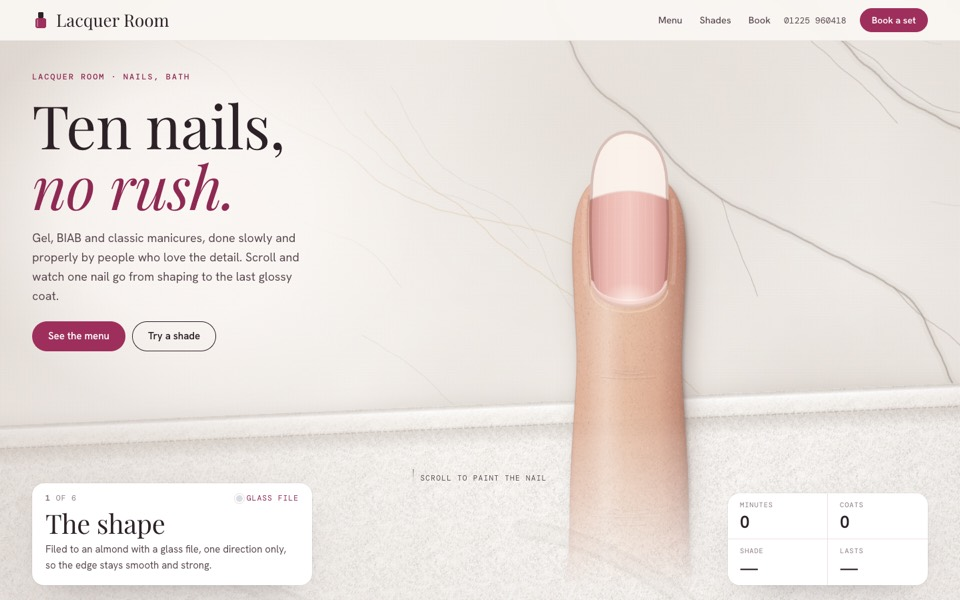
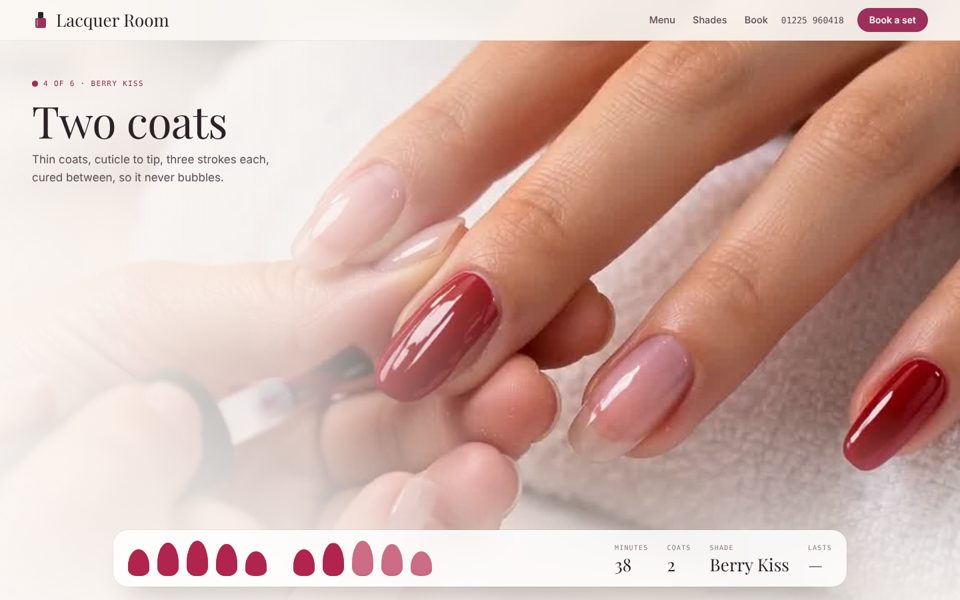
Lacquer redesigned v5: the real manicure above a rest of ten nails in the client's shape, painted in turn and cured under a glowing lamp
Claude-Session: https://claude.ai/code/session_0133g3z4wqTvWj4LLKkZ92ba

diff --git a/design-packages/design/lacquer/template.html b/design-packages/design/lacquer/template.html
@@ -1,11 +1,13 @@
 <!doctype html><html><head><meta charset=utf8><meta name=viewport content="width=device-width,initial-scale=1,viewport-fit=cover"><style>:root{color-scheme:light;box-sizing:border-box;padding-top:env(safe-area-inset-top,0px);padding-bottom:env(safe-area-inset-bottom,0px)}html{scroll-padding-top:env(safe-area-inset-top,0px)}body{margin:0;padding:0;font:14px -apple-system,BlinkMacSystemFont,sans-serif;background:#fff;color:#000}img{max-width:100%}[hidden]:not([hidden=until-found i]){display:none!important}</style></head><body>
 <title>{{business.name}}</title>
+<meta name="description" content="{{hero.lede|attr}}">
 <link rel="preconnect" href="https://fonts.googleapis.com">
 <link rel="preconnect" href="https://fonts.gstatic.com" crossorigin>
 <link href="https://fonts.googleapis.com/css2?family=Playfair+Display:ital,wght@0,400;0,500;1,400&family=Hanken+Grotesk:wght@400;500;600;700&family=DM+Mono:wght@400;500&display=swap" rel="stylesheet">
 <style>
-/* Layout: a nail studio. One pinned fingertip done as you scroll (shaped, cuticles, base coat, two coats of colour, the
-   art, a top coat cured under the lamp), then the full set; then what a client needs: the menu with times and prices
+/* Layout: a nail studio. The real manicure plays as you scroll (the studio's own video or photos) above a rest with
+   all ten nails on it, in the client's shape, painted one after another: base, two coats, the art, then the top coat
+   glossed and cured under a lamp that glows over the picture; then what a client needs: the menu with times and prices
    to build a visit, a shelf of shades to try on a nail shape, and a slot to book with a technician. */
 :root{
   color-scheme:light;
@@ -57,48 +59,68 @@ p{margin:0}
 @media (max-width:980px){.nav ul{display:none}.nav .call{margin-left:auto}}
 @media (max-width:560px){.nav .call{display:none}.nav .btn{margin-left:auto}.brand{font-size:24px}}
 
-/* hero: the fingertip */
+/* hero: the real manicure, and ten nails on the rest below, painted in turn */
 .hero{position:relative;height:560vh}
 .stage{position:sticky;top:0;height:100vh;height:100svh;overflow:hidden;background:var(--porcelain)}
-#nail{position:absolute;inset:0;width:100%;height:100%;display:block}
-.hero-copy{position:absolute;left:var(--gut);top:calc(env(safe-area-inset-top,0px) + 108px);max-width:520px;z-index:3;display:grid;gap:18px;will-change:transform,opacity}
-.hero-copy::before{content:"";position:absolute;z-index:-1;inset:-110px -150px -90px calc(-1 * var(--gut) - 60px);background:radial-gradient(closest-side,rgba(251,247,244,.96),rgba(251,247,244,.78) 55%,rgba(251,247,244,0));pointer-events:none}
-.hero h1{font-size:clamp(3.1rem,min(6.4vw,10vh),6.4rem)}
+.stage .poster,#film{position:absolute;inset:0;width:100%;height:100%;display:block;z-index:0}
+.stage .poster{object-fit:cover}
+.veil{position:absolute;inset:0;z-index:1;pointer-events:none;background:linear-gradient(90deg,rgba(251,247,244,.94) 0%,rgba(251,247,244,.72) 32%,rgba(251,247,244,0) 54%),linear-gradient(0deg,rgba(251,247,244,.85),rgba(251,247,244,0) 32%)}
+.lamp{position:absolute;inset:0;z-index:1;pointer-events:none;background:radial-gradient(70% 60% at 62% 70%,rgba(150,90,255,.55),rgba(110,60,230,.18) 50%,rgba(110,60,230,0) 75%);mix-blend-mode:screen;opacity:0;transition:opacity .6s}
+.lamp.on{opacity:1;animation:hum 2.4s ease-in-out infinite}
+.flat .lamp.on{animation:none}
+@keyframes hum{50%{opacity:.75}}
+.hero-copy{position:absolute;left:var(--gut);top:calc(env(safe-area-inset-top,0px) + 104px);max-width:540px;z-index:3;display:grid;gap:18px;will-change:transform,opacity}
+.hero h1{font-size:clamp(3rem,min(6vw,9.4vh),6rem)}
 .hero h1 em{display:block;color:var(--accent-text)}
-.lede{color:var(--ink-2);max-width:42ch;font-size:clamp(16px,1.3vw,18px)}
-.hero .acts{display:flex;gap:10px;flex-wrap:wrap;margin-top:6px}
-.card{position:absolute;z-index:4;left:var(--gut);bottom:calc(22px + env(safe-area-inset-bottom,0px));width:min(420px,calc(100% - 2*var(--gut)));padding:16px 20px 18px;background:var(--sheet);border-radius:18px;box-shadow:0 22px 56px -30px rgba(43,33,38,.4),0 0 0 1px rgba(43,33,38,.05)}
-.card .row{display:flex;justify-content:space-between;gap:10px;font:400 11.5px/1.2 var(--f-mono);letter-spacing:.08em;text-transform:uppercase;color:var(--muted)}
-.card .tool{color:var(--accent-text);display:flex;align-items:center;gap:6px}
-.card .tool i{width:10px;height:10px;border-radius:50%;background:var(--shade,#B0244E);box-shadow:0 0 0 2px var(--sheet),0 0 0 3px var(--line)}
-.card h3{font-size:clamp(30px,2.8vw,40px);margin-top:10px}
-.card p{color:var(--ink-2);font-size:15px;margin-top:6px;min-height:3.2em}
-.meter{position:absolute;z-index:4;right:var(--gut);bottom:calc(22px + env(safe-area-inset-bottom,0px));display:grid;grid-template-columns:repeat(2,minmax(0,1fr));margin:0;min-width:300px;border-radius:18px;background:var(--sheet);box-shadow:0 22px 56px -30px rgba(43,33,38,.4),0 0 0 1px rgba(43,33,38,.05);overflow:hidden}
-.meter div{padding:12px 18px;border-right:1px solid var(--line);border-bottom:1px solid var(--line);min-width:0}
-.meter div:nth-child(2n){border-right:0}
-.meter div:nth-child(n+3){border-bottom:0}
-.meter dt{font:400 10.5px/1.2 var(--f-mono);letter-spacing:.08em;text-transform:uppercase;color:var(--muted)}
-.meter dd{margin:6px 0 0;font:600 26px/1 var(--f-body);letter-spacing:-.02em;font-variant-numeric:tabular-nums;white-space:nowrap}
-.meter dd small{font:400 11px var(--f-mono);color:var(--muted);margin-left:3px;letter-spacing:0}
-.hint{position:absolute;z-index:4;left:50%;bottom:calc(170px + env(safe-area-inset-bottom,0px));transform:translateX(-50%);font:400 11px var(--f-mono);letter-spacing:.12em;text-transform:uppercase;color:var(--ink-2);display:flex;align-items:center;gap:10px;pointer-events:none;white-space:nowrap}
-.hint i{display:block;width:1px;height:26px;background:linear-gradient(var(--ink-2),transparent);animation:cue 1.6s ease-in-out infinite}
+.lede{color:var(--ink-2);max-width:44ch;font-size:clamp(16px,1.3vw,18px)}
+.hero .acts{display:flex;gap:10px;flex-wrap:wrap;margin-top:4px}
+.split .w{display:inline-block;overflow:hidden;vertical-align:top;padding-bottom:.22em;margin-bottom:-.14em}
+.split .w{padding-right:.1em;margin-right:-.1em}
+.split .w>i{display:inline-block;font-style:inherit;animation:wrise .9s cubic-bezier(.16,1,.3,1) both}
+@keyframes wrise{from{transform:translateY(108%)}}
+.hint{position:absolute;z-index:4;left:var(--gut);bottom:calc(30px + env(safe-area-inset-bottom,0px));font:400 11px var(--f-mono);letter-spacing:.12em;text-transform:uppercase;color:var(--muted);display:flex;align-items:center;gap:10px;pointer-events:none}
+.hint i{display:block;width:1px;height:22px;background:linear-gradient(var(--muted),transparent);animation:cue 1.6s ease-in-out infinite}
 @keyframes cue{0%{transform:scaleY(.2);transform-origin:top}50%{transform:scaleY(1);transform-origin:top}100%{transform:scaleY(.2);transform-origin:bottom}}
-/* short laptop screens: a little less type so the copy clears the card */
-@media (min-width:821px) and (max-height:780px){.hero-copy{gap:14px}.hero h1{font-size:clamp(3.1rem,min(6.4vw,9vh),6.4rem)}.lede{font-size:15px}}
+.now{position:absolute;z-index:3;left:var(--gut);top:calc(env(safe-area-inset-top,0px) + 112px);max-width:min(440px,38vw);opacity:0;transition:opacity .45s}
+.now.on{opacity:1}
+.now .k{display:inline-flex;align-items:center;gap:8px;font:500 11px/1.2 var(--f-mono);letter-spacing:.12em;text-transform:uppercase;color:var(--accent-text)}
+.now .k i{width:9px;height:9px;border-radius:50%;background:var(--shade,#D9DEE6);box-shadow:inset 0 0 0 1px rgba(0,0,0,.1)}
+.now h3{font:400 clamp(40px,4.6vw,68px)/1 var(--f-display);margin-top:10px}
+.now p{color:var(--ink-2);margin-top:12px;font-size:17px;max-width:34ch;min-height:4.7em}
+/* the rest: ten nails in two hands, each painted in turn */
+.rest{position:absolute;z-index:4;left:50%;bottom:calc(20px + env(safe-area-inset-bottom,0px));transform:translateX(-50%);width:min(1100px,calc(100% - 2*var(--gut)));display:flex;align-items:center;justify-content:space-between;gap:20px;padding:16px 22px;border-radius:22px;background:rgba(255,255,255,.86);backdrop-filter:blur(14px);-webkit-backdrop-filter:blur(14px);box-shadow:0 0 0 1px rgba(43,33,38,.06),0 24px 50px -30px rgba(43,33,38,.45);opacity:0;transition:opacity .45s}
+.rest.on{opacity:1}
+.hands{display:flex;gap:clamp(18px,3vw,40px)}
+.hand{display:flex;align-items:flex-end;gap:clamp(6px,.9vw,12px)}
+.nl{position:relative;width:clamp(22px,2.3vw,32px);height:calc(clamp(22px,2.3vw,32px) * var(--len,1.5));border-radius:var(--rad);clip-path:var(--clip,none);background:#F1D3CA;box-shadow:inset 0 -6px 8px -6px rgba(140,70,60,.35);overflow:hidden}
+.nl:nth-child(1){--len:1.25}.nl:nth-child(2){--len:1.55}.nl:nth-child(3){--len:1.65}.nl:nth-child(4){--len:1.5}.nl:nth-child(5){--len:1.15}
+.nl .bs,.nl .c1,.nl .c2{position:absolute;left:0;right:0;bottom:0;height:100%;transform-origin:50% 100%;transform:scaleY(var(--f,0))}
+.nl .bs{background:rgba(255,240,240,.55)}
+.nl .c1{background:var(--col);opacity:.62}
+.nl .c2{background:var(--col)}
+.nl .art{position:absolute;inset:0;opacity:var(--a,0);transition:opacity .3s;background:radial-gradient(circle at 50% 42%,var(--artc) 0 2.4px,transparent 3px),radial-gradient(circle at 40% 36%,var(--artc) 0 2.2px,transparent 2.8px),radial-gradient(circle at 60% 36%,var(--artc) 0 2.2px,transparent 2.8px),radial-gradient(circle at 44% 50%,var(--artc) 0 2.2px,transparent 2.8px),radial-gradient(circle at 56% 50%,var(--artc) 0 2.2px,transparent 2.8px),radial-gradient(circle at 50% 44%,#F2C14E 0 1.4px,transparent 1.8px)}
+.nl .gl{position:absolute;inset:0;opacity:var(--g,0);background:linear-gradient(100deg,transparent 22%,rgba(255,255,255,.75) 30%,rgba(255,255,255,0) 40%),linear-gradient(180deg,rgba(255,255,255,.3),transparent 40%)}
+.nl.chrome .gl{background:linear-gradient(100deg,rgba(255,255,255,.1) 10%,rgba(255,255,255,.85) 30%,rgba(255,255,255,.1) 50%,rgba(255,255,255,.6) 70%,transparent 85%)}
+.nl.matte .gl{background:linear-gradient(180deg,rgba(255,255,255,.12),transparent)}
+.rest dl{display:flex;gap:clamp(14px,2vw,28px);margin:0}
+.rest dt{font:400 10px/1.2 var(--f-mono);letter-spacing:.12em;text-transform:uppercase;color:var(--muted)}
+.rest dd{margin:6px 0 0;font:400 26px/1 var(--f-display);font-variant-numeric:tabular-nums;white-space:nowrap}
+.rest .cure{font:500 11px var(--f-mono);letter-spacing:.1em;text-transform:uppercase;color:#6b3fd6;min-width:9ch}
+@media (max-width:980px){.rest{flex-wrap:wrap;justify-content:center}.rest dl{width:100%;justify-content:space-between}}
 @media (max-width:820px){
-  .hero-copy{top:calc(env(safe-area-inset-top,0px) + 86px);max-width:none;right:var(--gut);gap:14px}
+  .veil{background:linear-gradient(180deg,rgba(251,247,244,.94) 0%,rgba(251,247,244,.66) 34%,rgba(251,247,244,0) 50%),linear-gradient(0deg,rgba(251,247,244,.9),rgba(251,247,244,0) 42%)}
+  .hero-copy{top:calc(env(safe-area-inset-top,0px) + 84px);max-width:none;right:var(--gut);gap:14px}
   .hero .acts{display:none}
-  .meter{left:var(--gut);right:var(--gut);min-width:0;grid-template-columns:repeat(2,minmax(0,.82fr)) minmax(0,1.36fr) minmax(0,1fr);bottom:calc(204px + env(safe-area-inset-bottom,0px))}
-  .meter div{padding:9px 10px;border-bottom:0}
-  .meter div:nth-child(2n){border-right:1px solid var(--line)}
-  .meter div:last-child{border-right:0}
-  .meter dt{font-size:8.5px;letter-spacing:.03em}
-  .meter dd{font-size:clamp(16px,4.6vw,22px)}
-  .meter dd small{display:none}
-  .meter dd#kShade,.meter dd#kLasts{white-space:normal;overflow-wrap:anywhere;line-height:1.05;font-size:clamp(14px,4vw,19px)}
-  .card{bottom:calc(14px + env(safe-area-inset-bottom,0px));padding:14px 18px}
-  .card p{font-size:14px;min-height:4.4em}
   .hint{display:none}
+  .now{top:calc(env(safe-area-inset-top,0px) + 76px);right:var(--gut);max-width:none}
+  .now h3{font-size:38px}
+  .now p{font-size:14.5px;min-height:3em}
+  .rest{width:calc(100% - 20px);padding:12px 12px;border-radius:16px;gap:10px;bottom:calc(10px + env(safe-area-inset-bottom,0px))}
+  .hands{gap:14px}
+  .hand{gap:5px}
+  .nl{width:24px}
+  .rest dd{font-size:18px}
+  .rest dt{font-size:9px;letter-spacing:.04em}
 }
 
 /* sections */
@@ -205,9 +227,12 @@ footer{background:var(--ink);color:var(--porcelain);padding:clamp(70px,9vw,120px
 </nav>
 
 <main>
-<section class="hero" id="top" aria-label="A manicure done nail by nail, scroll to run it">
+<section class="hero" id="top" aria-label="A manicure done nail by nail; scroll to run it">
   <div class="stage" id="stage">
-    <canvas id="nail" aria-hidden="true"></canvas>
+{{#if $.film.poster}}    <img class="poster" src="{{$.film.poster|attr}}" alt="" aria-hidden="true">
+{{/if}}    <canvas id="film" role="img" aria-label="A manicure at {{brand.name|attr}}: shaped, painted and finished"></canvas>
+    <div class="lamp" id="lamp" aria-hidden="true"></div>
+    <div class="veil" aria-hidden="true"></div>
     <div class="hero-copy" id="heroCopy">
       <p class="eyebrow">{{hero.eyebrow}}</p>
       <h1>{{hero.title}} <em>{{hero.titleEm}}</em></h1>
@@ -215,16 +240,16 @@ footer{background:var(--ink);color:var(--porcelain);padding:clamp(70px,9vw,120px
       <div class="acts"><a class="btn" href="#menu">{{hero.cta}}</a><a class="btn ghost" href="#shades">{{hero.cta2}}</a></div>
     </div>
     <div class="hint" id="hint"><i></i>{{hero.hint}}</div>
-    <dl class="meter" id="meter" aria-live="off">
-      <div><dt>{{count.labels.0}}</dt><dd id="kMin">0</dd></div>
-      <div><dt>{{count.labels.1}}</dt><dd id="kCoats">0</dd></div>
-      <div><dt>{{count.labels.2}}</dt><dd id="kShade">—</dd></div>
-      <div><dt>{{count.labels.3}}</dt><dd id="kLasts">—</dd></div>
-    </dl>
-    <div class="card" id="card" aria-live="polite">
-      <div class="row"><span><b id="gNum">1</b> of 6</span><span class="tool" id="gTool"><i></i><span id="gToolName">{{stages.0.tool}}</span></span></div>
-      <h3 id="gTitle">{{stages.0.n}}</h3>
-      <p id="gText">{{stages.0.c}}</p>
+    <div class="now" id="now" aria-live="polite"><span class="k" id="gTool"><i></i><span><span id="gNum">1</span> of 6 · <span id="gToolName">{{stages.0.tool}}</span></span></span><h3 id="gTitle">{{stages.0.n}}</h3><p id="gText">{{stages.0.c}}</p></div>
+    <div class="rest" id="rest">
+      <div class="hands" id="hands" aria-hidden="true"></div>
+      <span class="cure" id="cure" aria-hidden="true"></span>
+      <dl id="meter" aria-live="off">
+        <div><dt>{{count.labels.0}}</dt><dd id="kMin">0</dd></div>
+        <div><dt>{{count.labels.1}}</dt><dd id="kCoats">0</dd></div>
+        <div><dt>{{count.labels.2}}</dt><dd id="kShade">—</dd></div>
+        <div><dt>{{count.labels.3}}</dt><dd id="kLasts">—</dd></div>
+      </dl>
     </div>
   </div>
 </section>
@@ -480,6 +505,7 @@ function towel(c,x0,y0,w,h,a){const px=pxOf(c);c.save();c.rotate(a);
   c.strokeStyle='rgba(165,152,140,.45)';c.lineWidth=.009;c.setLineDash([.035,.022]);c.beginPath();c.moveTo(x0,y0+.19);c.lineTo(x0+w,y0+.19);c.stroke();c.setLineDash([]);c.restore();c.restore();}
 // the try-on: five tips in a row on marble, sized thumb to little finger
 let shelfTable=null;
+function lift(c,h){const px=pxOf(c);c.shadowColor='rgba(60,34,26,.3)';c.shadowBlur=px*.06*h;c.shadowOffsetX=px*.05*h;c.shadowOffsetY=px*.09*h;}
 window.__nailSet=function(c,w,h,o){const key=Math.round(w)+'x'+Math.round(h);if(!shelfTable||shelfTable.key!==key){shelfTable=marble(2400,Math.round(2400*h/w),23);shelfTable.key=key;}c.drawImage(shelfTable,0,0,w,h);
   const z=Math.min(w/6.8,h/(2.1+o.length*1.4));c.save();c.translate(w/2,h/2+z*(.58+o.length/2));c.scale(z,z);
   [1.08,.95,1,.94,.8].forEach((s,i)=>{c.save();c.translate((i-2)*1.18,Math.abs(i-2)*.1);c.rotate((i-2)*.05);c.scale(s,s);c.translate(0,(1-s)*-.6);tip(c,o,i+3,0);c.restore();});c.restore();};
@@ -496,146 +522,56 @@ const NAIL={{$.nailJs|raw}};
 const COUNT={{$.countJs|raw}};
 const BG='rgb(251,247,244)';
 
-/* ============ GEOMETRY ============ */
-const cv=$('#nail'), ctx=cv.getContext('2d');
-let W=0,H=0,DPR=1,mobile=false,LA=null,LB=null,LZ=null,TABLE=null;
-// a fingertip with room for the tools is 1.7 wide and 3.3 tall (tip at the top); with the set in a ring round it, 5.6 by 5.4 and the length
-function fit(ax,ay){const s=Math.min((ax[1]-ax[0])/1.7,(ay[1]-ay[0])/3.3);return{s,x:(ax[0]+ax[1])/2,y:ay[0]+s*(1.95+NAIL.length*.5)};}
-function fitFan(ax,ay){const s=Math.min((ax[1]-ax[0])/5.6,(ay[1]-ay[0])/(5.4+NAIL.length));return{s,x:(ax[0]+ax[1])/2,y:(ay[0]+ay[1])/2+s*(.65+NAIL.length/2)};}
-function layout(){W=cv.clientWidth;H=cv.clientHeight;DPR=Math.min(devicePixelRatio||1,TOUCH?1.5:2);cv.width=Math.round(W*DPR);cv.height=Math.round(H*DPR);mobile=W<820;
-  TABLE=marble(cv.width,cv.height,23);
-  const top=Math.max(70,H*.1), mt=$('#meter').getBoundingClientRect(), cd=$('#card').getBoundingClientRect(), stg=$('#stage').getBoundingClientRect();
-  if(mobile){const lo=mt.top-stg.top-10;LA=LB=fit([W*.04,W*.96],[top,lo]);LZ=fitFan([W*.03,W*.97],[top,lo]);}
-  else{const cr=copy.offsetLeft+copy.offsetWidth, cb=copy.offsetTop+copy.offsetHeight, low=Math.min(mt.top,cd.top)-stg.top;
-    const side=fit([cr+20,W*.97],[H*.1,low-12]), under=fit([W*.05,W*.95],[cb+20,low-12]);
-    LA=side.s>=under.s*.8?side:under;LB=fit([W*.2,W*.8],[top,low-14]);LZ=fitFan([W*.08,W*.92],[top,low-14]);}}
+/* ============ THE FILM ============ */
+const hero=$('#top'), copy=$('#heroCopy'), hint=$('#hint'), now=$('#now'), rest=$('#rest'), lamp=$('#lamp'), cure=$('#cure');
+const STILL=/[?&]still\b/.test(location.search), FLAT=RM||STILL;
+if(FLAT)document.documentElement.classList.add('flat');
+{{$.film.runtime|raw}}
+const film=SRFilm($('#film'),{{$.film.json|raw}},{flat:FLAT,fx:.62,fy:.5});
+let inFrame=false;try{inFrame=window.self!==window.top}catch(e){inFrame=true}
+let AUTO=inFrame&&scrollY<1&&!FLAT;
+if(AUTO)addEventListener('scroll',()=>{if(AUTO&&scrollY>=1){AUTO=false;film.poke()}},{passive:true});
 
-/* ============ DRAWING ============ */
+/* ============ TEN NAILS ============ */
+// the client's shape as an outline, both hands little finger to thumb, painted left to right
+const SHAPE_CSS={square:['5px 5px 40% 40% / 5px 5px 26% 26%',''],round:['50% 50% 42% 42% / 34% 34% 26% 26%',''],almond:['50% 50% 42% 42% / 64% 64% 26% 26%',''],
+  coffin:['4px 4px 40% 40% / 4px 4px 26% 26%','polygon(22% 0,78% 0,100% 40%,100% 100%,0 100%,0 40%)'],stiletto:['0 0 42% 42% / 0 0 26% 26%','polygon(50% 0,100% 48%,100% 100%,0 100%,0 48%)']};
+const sc=SHAPE_CSS[NAIL.shape]||SHAPE_CSS.almond, ART=NAIL.art&&NAIL.art!=='none';
+const hand=()=>`<div class="hand">${Array.from({length:5},()=>`<span class="nl ${NAIL.finish||''}"><i class="bs"></i><i class="c1"></i><i class="c2"></i>${ART?'<i class="art"></i>':''}<i class="gl"></i></span>`).join('')}</div>`;
+$('#hands').innerHTML=hand()+hand();
+const nails=[...document.querySelectorAll('#hands .nl')];
+nails.forEach(n=>{n.style.setProperty('--rad',sc[0]);if(sc[1])n.style.setProperty('--clip',sc[1]);n.style.setProperty('--col',NAIL.col);n.style.setProperty('--artc',NAIL.artCol||'#fff');});
+// each nail gets its share of a step, one after the other
+const turn=(f,i)=>clamp(f*nails.length-i*.85);
 let shown=-1;
-// a tool held above the hand casts a soft shadow down and to the right; h is how high it's held
-function lift(c,h){const px=pxOf(c);c.shadowColor='rgba(60,34,26,.3)';c.shadowBlur=px*.06*h;c.shadowOffsetX=px*.05*h;c.shadowOffsetY=px*.09*h;}
-const STEEL=['#7E858F','#D9DEE4','#A3AAB3','#F4F6F8','#BCC2C9','#6F767F'];
-function across(c,w,cols){const g=c.createLinearGradient(-w/2,0,w/2,0);cols.forEach((col,i)=>g.addColorStop(i/(cols.length-1),col));return g;}
-// a crystal glass file, its filing face etched, sliding to and fro under the free edge
-function file(c,k,time,L){if(k<=0||k>=1)return;const y=-1.05-L*.95, x=Math.sin(k*Math.PI*6)*.35;c.save();c.translate(x,y);c.rotate(-.12);
-  c.save();lift(c,1.2);c.fillStyle='rgba(214,226,236,.5)';c.beginPath();c.roundRect(-1.3,-.11,2.6,.22,.11);c.fill();c.restore();
-  c.save();c.beginPath();c.roundRect(-1.3,-.11,2.6,.22,.11);c.clip();
-  const g=c.createLinearGradient(0,-.11,0,.11);g.addColorStop(0,'rgba(255,255,255,.85)');g.addColorStop(.18,'rgba(220,232,242,.35)');g.addColorStop(.55,'rgba(190,206,220,.3)');g.addColorStop(.85,'rgba(150,170,190,.45)');g.addColorStop(1,'rgba(255,255,255,.7)');c.fillStyle=g;c.fillRect(-1.3,-.11,2.6,.22);
-  c.globalAlpha*=.75;c.fillStyle=pat(c,FROST,.12);c.fillRect(-1.05,-.08,1.9,.16);c.globalAlpha/=.75;
-  c.fillStyle='rgba(255,255,255,.75)';c.fillRect(-1.2,-.085,2.3,.012);c.fillStyle='rgba(120,140,160,.25)';c.fillRect(.95,-.11,.006,.22);c.restore();
-  c.strokeStyle='rgba(110,130,150,.45)';c.lineWidth=.006;c.beginPath();c.roundRect(-1.3,-.11,2.6,.22,.11);c.stroke();c.restore();
-  // the dust of the edge
-  const r=rng(Math.floor(k*40));for(let i=0;i<22;i++){const dx=(r()-.5)*.7, dy=r()*.4, s=.006+r()*.012;rad(c,dx,y+.08+dy,s*1.8,s*1.8,`rgba(255,248,244,${.5+r()*.4})`);c.fillStyle='rgba(250,240,236,.95)';c.beginPath();c.arc(dx,y+.08+dy,s*.6,0,7);c.fill();}}
-// a steel pusher, its spoon end easing the skin back along the base of the nail
-function pusher(c,k){if(k<=0||k>=1)return;const a=lerp(-.9,.9,sm(k)), x=Math.sin(a)*.3, y=-.14-Math.cos(a)*.06;c.save();c.translate(x,y);c.rotate(.5);
-  c.save();lift(c,.8);c.fillStyle=across(c,.13,STEEL);c.beginPath();c.moveTo(-.075,-.03);c.quadraticCurveTo(0,-.09,.075,-.03);c.lineTo(.03,.32);c.lineTo(.05,.42);c.lineTo(.055,2.4);c.lineTo(-.055,2.4);c.lineTo(-.05,.42);c.lineTo(-.03,.32);c.closePath();c.fill();c.restore();
-  // the knurled grip and the polished spoon
-  c.save();c.beginPath();c.rect(-.055,.6,.11,1.5);c.clip();c.strokeStyle='rgba(60,66,74,.35)';c.lineWidth=.006;for(let t=.55;t<2.15;t+=.03){c.beginPath();c.moveTo(-.06,t);c.lineTo(.06,t+.05);c.stroke();c.beginPath();c.moveTo(.06,t);c.lineTo(-.06,t+.05);c.stroke();}c.restore();
-  c.fillStyle='rgba(255,255,255,.7)';c.beginPath();c.ellipse(-.02,-.02,.03,.012,0,0,7);c.fill();c.fillRect(-.018,.45,.01,1.9);c.restore();}
-// the bottle's brush: a fan of bristles loaded with colour, its stem and the glossy cap it's held by
-function brush(c,x,y,col,on){if(!on)return;c.save();c.translate(x,y);c.rotate(.28);
-  c.save();lift(c,1);c.fillStyle=across(c,.2,['#0E0B0D','#2F282C','#6E6468','#1E191C','#0A0809']);c.beginPath();c.roundRect(-.1,.26,.2,1.15,.035);c.fill();c.restore();
-  c.fillStyle='rgba(255,255,255,.45)';c.fillRect(-.045,.3,.016,1.06);c.fillStyle='rgba(255,255,255,.08)';for(let t=.33;t<.6;t+=.04)c.fillRect(-.1,t,.2,.012);
-  c.fillStyle=across(c,.05,STEEL);c.fillRect(-.022,.16,.044,.12);
-  const g=c.createLinearGradient(0,0,0,.2);g.addColorStop(0,col);g.addColorStop(1,'rgba(40,24,28,.9)');c.fillStyle=g;c.beginPath();c.moveTo(-.07,.01);c.quadraticCurveTo(0,.045,.07,.01);c.lineTo(.03,.18);c.lineTo(-.03,.18);c.closePath();c.fill();
-  c.strokeStyle='rgba(0,0,0,.18)';c.lineWidth=.004;for(let i=-3;i<=3;i++){c.beginPath();c.moveTo(i*.018,.025);c.lineTo(i*.008,.17);c.stroke();}
-  c.fillStyle='rgba(255,255,255,.55)';c.beginPath();c.ellipse(-.025,.06,.008,.04,.1,0,7);c.fill();c.restore();}
-// a dotting tool: a polished steel ball on a pen-sized handle
-function dotter(c,x,y,on){if(!on)return;c.save();c.translate(x,y);c.rotate(.35);
-  c.save();lift(c,.9);c.fillStyle=across(c,.016,STEEL);c.fillRect(-.008,0,.016,.32);c.fillStyle=across(c,.07,['#4B3A5E','#8B73AE','#C9B7DF','#7A5F9C','#3E2F50']);c.beginPath();c.roundRect(-.035,.3,.07,.95,.035);c.fill();c.restore();
-  const b=c.createRadialGradient(-.008,-.01,0,0,0,.028);b.addColorStop(0,'#FFFFFF');b.addColorStop(.5,'#B8BEC6');b.addColorStop(1,'#5E656E');c.fillStyle=b;c.beginPath();c.arc(0,0,.026,0,7);c.fill();
-  c.fillStyle='rgba(255,255,255,.4)';c.fillRect(-.018,.34,.01,.86);c.restore();}
-// the oil: a glass dropper comes in over the cuticle and lets one golden drop fall
-function dropper(c,k){const on=sm(seg(k,.35,.5))*(1-sm(seg(k,.85,1)));if(on<=0)return;const drop=seg(k,.5,.62);c.save();c.globalAlpha*=on;c.translate(.02,lerp(-1.1,-.42,sm(seg(k,.35,.5))));c.scale(1.4,1.4);
-  if(drop>0&&drop<1){const dy=.02+drop*.25;const g=c.createRadialGradient(-.006,dy-.01,0,0,dy,.035);g.addColorStop(0,'#FFF1C2');g.addColorStop(.5,'#E8B53C');g.addColorStop(1,'#A86F12');c.fillStyle=g;c.beginPath();c.moveTo(0,dy-.045);c.quadraticCurveTo(.026,dy-.005,.022,dy+.012);c.arc(0,dy+.008,.022,0,Math.PI);c.quadraticCurveTo(-.026,dy-.005,0,dy-.045);c.fill();}
-  c.save();lift(c,1.1);c.fillStyle='rgba(214,228,234,.38)';c.beginPath();c.moveTo(-.02,0);c.quadraticCurveTo(0,.014,.02,0);c.lineTo(.038,-.5);c.lineTo(-.038,-.5);c.closePath();c.fill();c.restore();
-  const oil=c.createLinearGradient(-.03,0,.03,0);oil.addColorStop(0,'rgba(168,111,18,.85)');oil.addColorStop(.4,'rgba(240,196,92,.8)');oil.addColorStop(1,'rgba(150,96,14,.85)');c.fillStyle=oil;c.beginPath();c.moveTo(-.017,-.01);c.lineTo(.017,-.01);c.lineTo(.03,-.24);c.lineTo(-.03,-.24);c.closePath();c.fill();
-  c.fillStyle='rgba(255,255,255,.7)';c.fillRect(-.026,-.48,.008,.45);c.fillStyle='rgba(255,255,255,.3)';c.fillRect(.016,-.46,.005,.4);
-  c.save();lift(c,1.3);c.fillStyle=across(c,.13,['#050404','#2B2527','#5C5356','#1A1617','#030303']);c.beginPath();c.roundRect(-.055,-.56,.11,.08,.02);c.fill();c.beginPath();c.ellipse(0,-.72,.066,.17,0,0,7);c.fill();c.restore();
-  c.fillStyle='rgba(255,255,255,.3)';c.beginPath();c.ellipse(-.025,-.76,.012,.08,0,0,7);c.fill();c.restore();}
-// the LED lamp: a white dome over the hand, its LEDs glowing and its light washing the nail violet
-function lamp(c,k,time){if(k<=0)return;const y=lerp(-3.4,-1.15,sm(k));c.save();
-  c.save();c.globalCompositeOperation='screen';rad(c,0,-.7,1.3,1.3,`rgba(130,105,255,${.4*sm(k)})`);c.restore();
-  c.translate(0,y);const dome=new Path2D();dome.moveTo(-1.08,.42);dome.bezierCurveTo(-1.08,-.62,1.08,-.62,1.08,.42);dome.lineTo(.8,.42);dome.bezierCurveTo(.8,-.3,-.8,-.3,-.8,.42);dome.closePath();
-  c.save();lift(c,2.2);c.fillStyle='#F4F2F1';c.fill(dome);c.restore();
-  c.save();c.clip(dome);const g=c.createLinearGradient(0,-.4,0,.42);g.addColorStop(0,'#FFFFFF');g.addColorStop(.6,'#ECE9E8');g.addColorStop(1,'#CFCAC8');c.fillStyle=g;c.fillRect(-1.2,-.6,2.4,1.1);
-  c.strokeStyle='rgba(255,255,255,.95)';c.lineWidth=.03;c.beginPath();c.moveTo(-.98,.3);c.bezierCurveTo(-.98,-.48,.98,-.48,.98,.3);c.stroke();
-  c.strokeStyle='rgba(60,50,70,.5)';c.lineWidth=.07;c.beginPath();c.moveTo(-.8,.42);c.bezierCurveTo(-.8,-.3,.8,-.3,.8,.42);c.stroke();c.restore();
-  c.fillStyle='rgba(30,28,36,.85)';c.beginPath();c.roundRect(-.22,-.32,.44,.07,.03);c.fill();c.save();c.translate(0,-.285);c.scale(.01,.01);c.fillStyle='#9DF0C8';c.font='600 5px system-ui,sans-serif';c.textAlign='center';c.textBaseline='middle';c.fillText(String(60-Math.floor(k*30)).padStart(2,'0'),0,0);c.restore();
-  for(let i=0;i<7;i++){const a=Math.PI*(.15+i*.7/6), x=-Math.cos(a)*.86, yy=.32-Math.sin(a)*.62, on=.6+.4*Math.sin(time*6+i);
-    rad(c,x,yy,.09,.09,`rgba(150,125,255,${.55*on})`);c.fillStyle=`rgba(235,228,255,${on})`;c.beginPath();c.arc(x,yy,.018,0,7);c.fill();}c.restore();}
-// the hero's own nail, as far as p has got; z is how far the view has pulled back to the whole hand
-function hero(c,f,time,z){const L=NAIL.length, path=nailPath(NAIL.shape,L);
-  fingerOn(c,NAIL.skin,.7,2.2);
-  // the shape: the natural nail is filed back to the chosen shape
-  bare(c,path);const shp=sm(f[0]);if(shp<1){c.save();c.globalAlpha*=1-shp;bare(c,nailPath('natural',.52));c.restore();}
-  // base coat: milky, painted cuticle to tip
-  const tipY=-1.05-L, base=sm(f[2]);if(base>0){c.save();c.clip(path);c.beginPath();c.rect(-1,lerp(.05,tipY-.05,base),2,3);c.clip();c.fillStyle='rgba(246,214,214,.72)';c.fillRect(-1,-2.6,2,3);c.restore();}
-  // colour: two coats of three strokes, each from the cuticle up
-  const strokes=[0,-.2,.2,0,-.2,.2], fc=f[3];let tool=null;
-  strokes.forEach((x,i)=>{const k=sm(seg(fc,i/6,(i+1)/6));if(k<=0)return;const y=lerp(.05,tipY-.05,k);c.save();c.clip(path);c.beginPath();c.moveTo(x-.17,.1);c.lineTo(x-.17,y+.06);c.quadraticCurveTo(x,y-.05,x+.17,y+.06);c.lineTo(x+.17,.1);c.closePath();c.clip();
-    c.globalAlpha*=i<3?.7:1;c.fillStyle=polishFill(c,NAIL.col,NAIL.finish);c.fillRect(-1,-2.6,2,3);c.restore();if(k<1)tool=['brush',x,y];});
-  if(fc>=1){c.save();c.clip(path);sparkle(c,NAIL.col,NAIL.finish,3);c.restore();}
-  // the colour has depth across the curve of the nail
-  const deep=Math.max(base*.35,sm(seg(fc,0,.5)));if(deep>0){c.save();c.globalAlpha*=deep;polishDepth(c,path,f[5]>.3?NAIL.finish:'cream');c.restore();}
-  // the skin round the nail; before the cuticle step a pale rim of cuticle covers the base
-  const cut=sm(seg(f[1],0,.5));folds(c,NAIL.skin,1-cut);
-  // then a drop of oil soaks into it
-  const oil=sm(seg(f[1],.55,.85)), oilOff=1-sm(seg(f[2],0,.5));if(oil>0){c.save();c.globalAlpha*=oilOff;rad(c,0,-.16,.5*oil+.01,.16*oil+.01,'rgba(255,196,80,.32)');
-    c.fillStyle='rgba(240,180,70,.42)';c.beginPath();c.ellipse(0,-.13,.34*oil,.06,0,0,7);c.fill();rad(c,-.1,-.15,.09*oil+.001,.016,'rgba(255,255,255,.85)');rad(c,.16,-.17,.04*oil+.001,.01,'rgba(255,255,255,.6)');c.restore();}
-  // wet shine while it's being painted
-  if(fc>0&&fc<1)gloss(c,.55,NAIL.shape,L);
-  // the art
-  const ak=f[4];art(c,NAIL.art,NAIL.artCol,ak,path,L);if(ak>0&&ak<1&&NAIL.art!=='none')tool=['dot',lerp(-.2,.15,ak),lerp(-.5,-1,ak)];
-  // top coat, the lamp, and the shine
-  gloss(c,NAIL.finish==='matte'?.25*sm(seg(f[5],.05,.5)):sm(seg(f[5],.05,.5)),NAIL.shape,L);
-  // tools
-  file(c,f[0]>.05?seg(f[0],.05,.95):0,time,L);pusher(c,seg(f[1],.03,.5));dropper(c,f[1]);
-  if(f[2]>0&&f[2]<1)brush(c,0,lerp(.05,tipY-.05,base),'#F6D6D6',true);
-  if(tool&&tool[0]==='brush')brush(c,tool[1],tool[2],NAIL.col,true);if(tool&&tool[0]==='dot')dotter(c,tool[1],tool[2],true);
-  lamp(c,sm(seg(f[5],0,.18))*(1-sm(seg(f[5],.38,.5))),time);
-  return path;}
-
-/* ============ HUD ============ */
-function hud(p,f){let idx=0;STAGES.forEach((s,i)=>{if(p>=s.w[0])idx=i;});
-  if(idx!==shown){shown=idx;$('#gNum').textContent=idx+1;$('#gTitle').textContent=STAGES[idx].n;$('#gText').textContent=STAGES[idx].c;$('#gToolName').textContent=STAGES[idx].tool;
-    $('#gTool').style.setProperty('--shade',idx>=3?NAIL.col:idx===2?'#F6D6D6':'#D9DEE6');}
-  const work=clamp((f[0]+f[1]+f[2]+f[3]+f[4]+f[5])/6);$('#kMin').textContent=Math.round(COUNT.mins*work);
-  const coats=f[2]>=.5?1:0;const c2=coats+(f[3]>=.5?1:0)+(f[3]>=1?1:0)+(f[4]>=1?1:0)+(f[5]>=.5?1:0);$('#kCoats').textContent=Math.min(COUNT.coats,Math.round(c2*COUNT.coats/5));
-  $('#kShade').textContent=f[3]>0?NAIL.shade:'—';$('#kLasts').textContent=p>=STAGES[5].w[0]+.08?COUNT.lasts:'—';}
 
 /* ============ FRAME ============ */
-const hero_=$('#top'), copy=$('#heroCopy'), hint=$('#hint');
 let cur=0;const t0=performance.now();
-function frame(p,time){ctx.setTransform(1,0,0,1,0,0);ctx.globalAlpha=1;if(TABLE)ctx.drawImage(TABLE,0,0);else{ctx.fillStyle=BG;ctx.fillRect(0,0,cv.width,cv.height);}ctx.setTransform(DPR,0,0,DPR,0,0);
-  const k=mobile?seg(p,.01,.05):seg(p,.06,.12), m=sm(mobile?k:seg(p,.05,.14));
-  const f=STAGES.map(s=>seg(p,s.w[0],s.w[1]));
-  // the full set: from the last stage's middle the view pulls back and the set of ten is laid out round the nail
-  const z=sm(seg(f[5],.5,.92));
-  let S=lerp(LA.s,LB.s,m), X=lerp(LA.x,LB.x,m), Y=lerp(LA.y,LB.y,m);S=lerp(S,LZ.s,z);X=lerp(X,LZ.x,z);Y=lerp(Y,LZ.y,z);
-  ctx.save();ctx.translate(X,Y);ctx.scale(S,S);
-  towel(ctx,-7,.62,14,9,-.04);
-  fan(ctx,NAIL,z);
-  hero(ctx,f,time,z);
-  ctx.restore();
-  // daylight from a window up and to the left, and the corners of the picture falling off
-  const lt=ctx.createLinearGradient(0,0,W*.7,H);lt.addColorStop(0,'rgba(255,250,242,.28)');lt.addColorStop(1,'rgba(255,250,242,0)');ctx.fillStyle=lt;ctx.fillRect(0,0,W,H);
-  const R=Math.hypot(W,H)*.62, vg=ctx.createRadialGradient(X,Y-S*.4,R*.35,X,Y-S*.4,R);vg.addColorStop(0,'rgba(110,84,74,0)');vg.addColorStop(1,'rgba(110,84,74,.14)');ctx.fillStyle=vg;ctx.fillRect(0,0,W,H);
-  // on a phone the picture sits behind the words until they scroll away
-  if(mobile&&k<1){ctx.fillStyle=`rgba(251,247,244,${(.75*(1-k)).toFixed(3)})`;ctx.fillRect(0,0,W,H);}
-  copy.style.opacity=(1-k).toFixed(3);copy.style.transform=`translateY(${(-k*24).toFixed(1)}px)`;copy.style.visibility=k>=1?'hidden':'visible';
-  hint.style.opacity=(1-seg(p,0,.03)).toFixed(3);hud(p,f);}
-function target(){const r=hero_.getBoundingClientRect();return clamp(-r.top/(r.height-innerHeight));}
-// phones (Safari above all) give up on pages that redraw and re-make big canvases too often: draw only while the
-// hero is on screen, at a gentler rate while nothing is scrolling, and lay out again only when the canvas's size changes
+function target(){const r=hero.getBoundingClientRect();return clamp(-r.top/(r.height-innerHeight));}
+const mobile=()=>innerWidth<820;
+function frame(p,time){
+  const P=FLAT?1:p, f=STAGES.map(s=>FLAT?1:seg(p,s.w[0],s.w[1]));
+  film.draw(FLAT?1:AUTO?(time/Math.max(4,film.seconds()))%1:clamp(seg(P,.02,.9)),time);
+  const k=mobile()?seg(p,.01,.05):seg(p,.06,.12);copy.style.opacity=(1-k).toFixed(3);copy.style.transform=`translateY(${(-k*24).toFixed(1)}px)`;copy.style.visibility=k>=1?'hidden':'visible';
+  hint.style.opacity=(1-seg(p,0,.03)).toFixed(3);const on=FLAT||k>=1;now.classList.toggle('on',on);rest.classList.toggle('on',on);
+  let idx=0;STAGES.forEach((s,i)=>{if(P>=s.w[0])idx=i;});
+  if(idx!==shown){shown=idx;$('#gNum').textContent=idx+1;$('#gTitle').textContent=STAGES[idx].n;$('#gText').textContent=STAGES[idx].c;$('#gToolName').textContent=STAGES[idx].tool;
+    $('#gTool').style.setProperty('--shade',idx>=3?NAIL.col:idx===2?'#F6D6D6':'#D9DEE6');}
+  // base coat, then two coats of colour (the first a little sheer), the art, then the top coat's gloss
+  nails.forEach((n,i)=>{n.querySelector('.bs').style.setProperty('--f',sm(turn(f[2],i)).toFixed(3));
+    n.querySelector('.c1').style.setProperty('--f',sm(turn(seg(f[3],0,.5),i)).toFixed(3));n.querySelector('.c2').style.setProperty('--f',sm(turn(seg(f[3],.5,1),i)).toFixed(3));
+    const a=n.querySelector('.art');if(a)a.style.setProperty('--a',turn(f[4],i)>.5?1:0);n.style.setProperty('--g',sm(turn(f[5],i)).toFixed(3));});
+  // the lamp: on while the top coat cures, counting its sixty seconds down
+  const curing=f[5]>.2&&f[5]<.95&&!FLAT;lamp.classList.toggle('on',curing);cure.textContent=curing?`Curing · ${Math.max(0,Math.round(60*(1-seg(f[5],.2,.95))))}s`:'';
+  const work=clamp((f[0]+f[1]+f[2]+f[3]+f[4]+f[5])/6);$('#kMin').textContent=Math.round(COUNT.mins*work);
+  const c2=(f[2]>=.5?1:0)+(f[3]>=.5?1:0)+(f[3]>=1?1:0)+(f[4]>=1?1:0)+(f[5]>=.5?1:0);$('#kCoats').textContent=Math.min(COUNT.coats,Math.round(c2*COUNT.coats/5));
+  $('#kShade').textContent=f[3]>0?NAIL.shade:'—';$('#kLasts').textContent=P>=STAGES[5].w[0]+.08||FLAT?COUNT.lasts:'—';
+}
 let gLast=-1e9,gForce=90;
-addEventListener('resize',()=>{gForce=30;});if(document.fonts&&document.fonts.ready)document.fonts.ready.then(()=>{gForce=30;});
-function gate(now){const r=cv.getBoundingClientRect();if(r.bottom<=0||r.top>=innerHeight)return true;if(gForce>0){gForce--;gLast=now;return false;}
+addEventListener('resize',()=>{gForce=30;film.size();});if(document.fonts&&document.fonts.ready)document.fonts.ready.then(()=>{gForce=30;});
+function gate(now){if(AUTO)return false;const r=$('#stage').getBoundingClientRect();if(r.bottom<=0||r.top>=innerHeight)return true;if(gForce>0){gForce--;gLast=now;return false;}
   if(Math.abs(target()-cur)>.0004){gLast=now;return false;}if(RM||now-gLast<(TOUCH?50:33))return true;gLast=now;return false;}
 function loop(now){if(gate(now)){requestAnimationFrame(loop);return;}const time=(now-t0)/1000, t=target();cur=RM?t:cur+(t-cur)*.14;if(Math.abs(t-cur)<.0004)cur=t;frame(cur,RM?0:time);requestAnimationFrame(loop);}
-layout();
-let rz;addEventListener('resize',()=>{clearTimeout(rz);rz=setTimeout(()=>{const w=cv.clientWidth,h=cv.clientHeight;if(w===gW&&h===gH)return;gW=w;gH=h;layout();},120);});
-if(document.fonts&&document.fonts.ready)document.fonts.ready.then(layout);
 requestAnimationFrame(loop);
 })();
 </script>
@@ -729,4 +665,14 @@ let rz;addEventListener('resize',()=>{clearTimeout(rz);rz=setTimeout(shadeView,1
 })();
 </script>
 
+<script>
+/* the title arrives word by word */
+(function(){if(matchMedia('(prefers-reduced-motion: reduce)').matches||/[?&]still\b/.test(location.search))return;const h=document.querySelector('[data-split]')||document.querySelector('main h1:not(.sr)');if(!h)return;let k=0;
+ // each word in its own clipped box; a block inside the title (a second line) keeps its place and has its words split too
+ const unit=(box,el)=>{const w=document.createElement('span');w.className='w';el.style.animationDelay=(150+k++*80)+'ms';w.appendChild(el);box.appendChild(w)};
+ const split=box=>{const parts=[...box.childNodes],blk=parts.map(n=>n.nodeType===1&&getComputedStyle(n).display==='block');box.textContent='';
+  parts.forEach((n,j)=>{if(n.nodeType===3)n.textContent.split(/(\s+)/).forEach(x=>{if(!x)return;if(/^\s+$/.test(x)){box.appendChild(document.createTextNode(' '));return}const i=document.createElement('i');i.textContent=x;unit(box,i)});
+   else if(n.nodeType===1){if(blk[j]){box.appendChild(n);if(n.children.length===0)split(n);return}const i=document.createElement('i');i.appendChild(n);unit(box,i)}});};
+ split(h);h.classList.add('split')})();
+</script>
 </body></html>

diff --git a/design-packages/design/lacquer/hooks.js b/design-packages/design/lacquer/hooks.js
@@ -5,6 +5,7 @@
 'use strict';
 const { FILTERS } = require('../../engine/template');
 const js = FILTERS.js;
+const film = require('../../engine/film');
 
 const WINDOWS = ['[0,.15]', '[.15,.3]', '[.3,.44]', '[.44,.64]', '[.64,.8]', '[.8,1]'];
 const DAYS = ['sun', 'mon', 'tue', 'wed', 'thu', 'fri', 'sat'];
@@ -21,6 +22,7 @@ function derive(c) {
     tel: c.contact.phone.replace(/[^\d+]/g, ''),
     businessSaid: c.business.name.replace(/\s*&\s*/g, ' and '),
     brandSaid: c.brand.name.replace(/\s*&\s*/g, ' and '),
+    film: film.derive(c, null, [158, 47, 92]),
     stagesJs: c.stages.map((s, i) => ` {n:${js(s.n)},c:${js(s.c)},tool:${js(s.tool)},w:${WINDOWS[i]}}`).join(',\n'),
     nailJs: `{shape:${js(N.shape)},length:${LENGTH[N.length]},col:${js(N.col)},shade:${js(N.shade)},finish:${js(N.finish)},art:${js(N.art)},artCol:${js(N.artCol)},skin:${js(SKIN[N.skin])}}`,
     countJs: `{mins:${c.count.mins},coats:${c.count.coats},lasts:${js(c.count.lasts)}}`,
